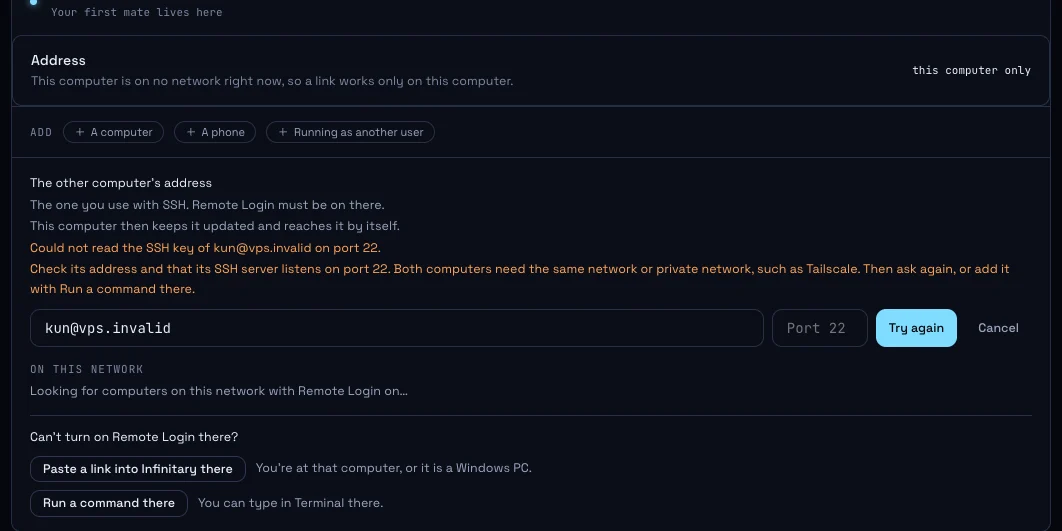
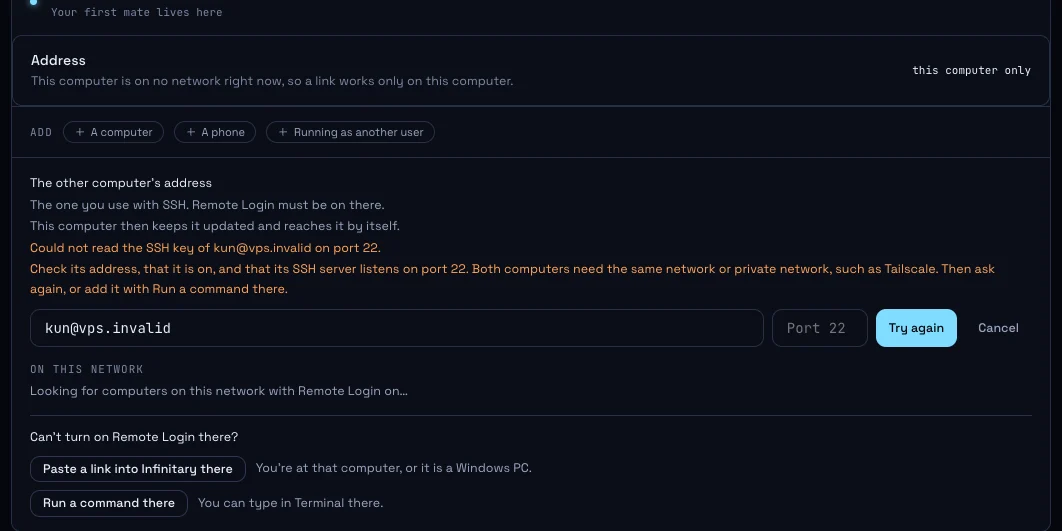
fix(devices): say the sign-in step only after a key read, and name late drops
A look whose computer has no remembered key read none first, so it
keeps the bare words. Placing Firstmate's own key says the sign-in step;
an add's last run, an update once Infinitary began to go there and an
Ubuntu update after its package went there say the sending step. The
release-note pictures show the words the app now says.

Changed region(s): [[0.0311, 0.4821, 0.9633, 0.5725]]

diff --git a/src/core/devices/remoteLogin.ts b/src/core/devices/remoteLogin.ts
@@ -257,6 +257,8 @@ type UbuntuReady = "ready" | "linger-off";
 
 const LOOK_TIMEOUT_MS = 90_000;
 const SEND_TIMEOUT_MS = REMOTE_LOGIN_TIME_LIMIT_MS;
+/** More than any system's pipe holds before SSH reads from it. */
+const PIPE_HOLDS = 1024 * 1024;
 /** The copy's count is said at most this often between its first bytes and its end. */
 const COPY_EVERY_MS = 1_000;
 const IDLE_TIMEOUT_MS = 2 * 60_000;
@@ -314,7 +316,7 @@ export class RemoteLogin {
       if (!this.builds.canSendAny()) return step.refuse("cannot-send");
       const gated = await this.confirmHost(address, options.confirm);
       if ("asks" in gated) return gated;
-      if ("refusal" in gated) return step.refuse(gated.refusal, reachOf(gated));
+      if ("refusal" in gated) return step.refuse(gated.refusal, reachOf(gated.reach));
       step.say("reaching", remoteLoginWords.reaching(address));
       // Whether that Mac is this one is this Mac's own finding, bound to the
       // link it makes, never where the device later dials from.
@@ -344,7 +346,7 @@ export class RemoteLogin {
       } finally {
         here.dispose();
       }
-      if ("refusal" in look) return step.refuse(look.refusal, reachOf(look));
+      if ("refusal" in look) return step.refuse(look.refusal, reachOf(look.reach));
       // That computer's system decides how it is set up, and which Firstmate it gets.
       const far = farSystemOf(look.os);
       const chip = far?.chips[look.arch ?? ""];
@@ -517,9 +519,9 @@ export class RemoteLogin {
           // before signing in, and check the joined folder before installing.
           const gated = await this.confirmHost(address, options.confirm);
           if ("asks" in gated) return gated;
-          if ("refusal" in gated) return step.refuse(gated.refusal, reachOf(gated));
+          if ("refusal" in gated) return step.refuse(gated.refusal, reachOf(gated.reach));
           const look = await this.look(address, "");
-          if ("refusal" in look) return step.refuse(look.refusal, reachOf(look));
+          if ("refusal" in look) return step.refuse(look.refusal, reachOf(look.reach));
           if (!look.joined) return step.packageAddressRefused();
           if (look.home !== this.options.pairing.identity().pin)
             return step.refuse("already-joined");
@@ -539,21 +541,21 @@ export class RemoteLogin {
           return outcome;
         }
         const changed = await this.changedKey(address);
-        if (changed) return step.refuse(changed.refusal, reachOf(changed));
+        if (changed) return step.refuse(changed.refusal, reachOf(changed.reach));
         step.say("updating", remoteLoginWords.updating(device), { deviceId });
         // The system it said in its hello; one that never said is asked there.
         let far = device.system ? farSystemNamed(device.system) : null;
         let chip = far ? (device.chip ?? Object.values(far.chips)[0]) : undefined;
         if (!device.system) {
           const look = await this.look(address, "");
-          if ("refusal" in look) return step.refuse(look.refusal, reachOf(look));
+          if ("refusal" in look) return step.refuse(look.refusal, reachOf(look.reach));
           far = farSystemOf(look.os);
           chip = far?.chips[look.arch ?? ""];
         }
         if (!far || !chip) return step.refuse("other-system");
         if (far.system === "linux" && this.builds.readsPublished()) {
           const looked = await this.look(address, "");
-          if ("refusal" in looked) return step.refuse(looked.refusal, reachOf(looked));
+          if ("refusal" in looked) return step.refuse(looked.refusal, reachOf(looked.reach));
           if (ubuntuPackageRelease(looked)) return this.updateUbuntu(device, looked, options, step);
         }
         if (!this.builds.canSend(far, chip)) return step.refuse("cannot-send");
@@ -563,6 +565,9 @@ export class RemoteLogin {
         const idleTimeoutMs = this.options.idleTimeoutMs ?? IDLE_TIMEOUT_MS;
         let ran: Awaited<ReturnType<typeof runSsh>> | undefined;
         let starting = false;
+        // Infinitary began to go there: its download answered, or SSH read
+        // more of the copy than a pipe holds, which it does only once signed in.
+        let sending = false;
         const start = () => {
           starting = true;
           step.say("updating", remoteLoginWords.starting(name), {
@@ -595,6 +600,7 @@ export class RemoteLogin {
               await new Promise<void>((resolve) => sink.once("close", resolve));
             },
             onLine: (line, activity) => {
+              sending = true;
               if (line === DOWNLOAD_FETCHED) {
                 activity.end();
                 return false;
@@ -650,9 +656,12 @@ export class RemoteLogin {
               ...(build.form === "bundle" ? [] : [build.sha256]),
             ],
             stdin: async (sink, activity) => {
+              let sent = 0;
               await sendCopy(build, sink, (bytes) => {
                 activity();
                 copy.add(bytes);
+                sent += bytes;
+                if (sent > PIPE_HOLDS) sending = true;
               });
               copy.end();
               activity.end();
@@ -694,7 +703,10 @@ export class RemoteLogin {
                   : "failed",
           );
         if (starting) return step.uncertain(name);
-        if (ran.code === SSH_FAILED) return step.refuse(sshRefusal(ran.stderr));
+        if (ran.code === SSH_FAILED) {
+          const refused = await this.refusedOver(address, sshRefusal(ran.stderr), sending);
+          return step.refuse(refused.refusal, reachOf(refused.reach));
+        }
         return step.refuse("failed");
       }),
     );
@@ -788,10 +800,10 @@ export class RemoteLogin {
       this.holding(deviceId, async () => {
         const step = this.stepper(address, "address", device);
         const changed = await this.changedKey(address);
-        if (changed) return step.refuse(changed.refusal, reachOf(changed));
+        if (changed) return step.refuse(changed.refusal, reachOf(changed.reach));
         step.say("reaching", remoteLoginWords.reaching(address), { deviceId });
         const look = await this.look(address, "");
-        if ("refusal" in look) return step.refuse(look.refusal, reachOf(look));
+        if ("refusal" in look) return step.refuse(look.refusal, reachOf(look.reach));
         if (!farSystemOf(look.os)) return step.refuse("other-system");
         if (!look.joined) return step.refuse("not-set-up");
         if (look.home !== this.options.pairing.identity().pin) return step.refuse("already-joined");
@@ -1091,7 +1103,7 @@ export class RemoteLogin {
               },
             );
           }
-          if (ran.code === SSH_FAILED) return refuse(sshRefusal(ran.stderr));
+          if (ran.code === SSH_FAILED) return refuse(sshRefusal(ran.stderr), { step: "send" });
           return refuse("failed");
         } finally {
           clearBackstop();
@@ -1376,7 +1388,11 @@ export class RemoteLogin {
       }
       // Stopped by the time limit while `work update` ran there: it may already have updated.
       if (ran.stopped) return step.uncertain(deviceLabel(device));
-      if (ran.code === SSH_FAILED) return step.refuse(sshRefusal(ran.stderr));
+      // The package is already there: a connection lost now is lost while sending.
+      if (ran.code === SSH_FAILED) {
+        const refused = await this.refusedOver(address, sshRefusal(ran.stderr), true);
+        return step.refuse(refused.refusal, reachOf(refused.reach));
+      }
       return step.refuse("failed");
     } finally {
       secret?.fill(0);
@@ -1403,9 +1419,7 @@ export class RemoteLogin {
     if (ran.code === SSH_FAILED) {
       const refusal = sshRefusal(ran.stderr);
       if (refusal === "key-refused") return { refusal, methods: passwordMethods(ran.stderr) };
-      return refusal === "unreachable"
-        ? { refusal, reach: await this.signInReach(address) }
-        : { refusal };
+      return this.refusedOver(address, refusal);
     }
     const said = new Map<string, string>();
     const needs: string[] = [];
@@ -1494,7 +1508,10 @@ export class RemoteLogin {
       }
       if (outcome === "off") return step.refuse("password-off");
       if (outcome === "other-system") return step.refuse("other-system");
-      if (outcome !== "placed") return step.refuse(outcome.refusal);
+      if (outcome !== "placed") {
+        const refused = await this.refusedOver(address, outcome.refusal);
+        return step.refuse(refused.refusal, reachOf(refused.reach));
+      }
       try {
         this.options.pairing.ownKeyPlacedAt(address);
       } catch {
@@ -1507,12 +1524,25 @@ export class RemoteLogin {
   }
 
   /**
-   * Where a sign-in that could not reach `address` dialed: the port the
-   * person's SSH settings resolve, unless a proxy stands in between.
+   * An SSH refusal from `address`, with the step it could not reach the
+   * computer at: sending once Infinitary began to go there; signing in, at
+   * the port the person's SSH settings resolve unless a proxy stands
+   * between, when a key read came first, as one does before every sign-in
+   * to a computer whose key is remembered; no step otherwise.
    */
-  private async signInReach(address: string): Promise<RemoteLoginReach> {
+  private async refusedOver(
+    address: string,
+    refusal: RemoteLoginRefusal,
+    sending = false,
+  ): Promise<{ refusal: RemoteLoginRefusal; reach?: RemoteLoginReach }> {
+    if (refusal !== "unreachable") return { refusal };
+    if (sending) return { refusal, reach: { step: "send" } };
+    if (!this.options.pairing.rememberedHost(address)) return { refusal };
     const where = await resolveDestination(this.options.ssh, address);
-    return where && !where.proxied ? { step: "sign-in", port: where.port } : { step: "sign-in" };
+    return {
+      refusal,
+      reach: where && !where.proxied ? { step: "sign-in", port: where.port } : { step: "sign-in" },
+    };
   }
 
   /**
@@ -1804,6 +1834,6 @@ function linkNoneRefusal(none: ComputerLinkNone): JoinAtRefusal {
 }
 
 /** The step a refusal could not reach the computer at, as the refusal's words take it. */
-function reachOf(refused: { reach?: RemoteLoginReach }): { reach?: RemoteLoginReach } {
-  return refused.reach ? { reach: refused.reach } : {};
+function reachOf(reach: RemoteLoginReach | undefined): { reach?: RemoteLoginReach } {
+  return reach ? { reach } : {};
 }

diff --git a/src/core/devices/remoteLogin.test.ts b/src/core/devices/remoteLogin.test.ts
@@ -97,11 +97,12 @@ describe.runIf(SSH_SERVER_AVAILABLE)("adding a Mac by its address over Remote Lo
       });
       const at = await home({ ssh: sshd.ssh({ remote: them.env }), bundle });
       const refused = await addChecked(at.remote, sshd.address).catch((error: unknown) => error);
-      const reason = code === 255 ? "unreachable" : "failed";
-      const lines = remoteLoginWords.refused(reason, {
+      // SSH's own failure there is the connection lost while it sent and started Infinitary.
+      const lines = remoteLoginWords.refused(code === 255 ? "unreachable" : "failed", {
         address: sshd.address,
         name: "Mac mini",
         doing: "add",
+        ...(code === 255 ? { reach: { step: "send" as const } } : {}),
       });
       expect(refused).toBeInstanceOf(RemoteLoginRefusedError);
       expect((refused as Error).message).toBe(lines.join("\n"));

diff --git a/docs/devices.md b/docs/devices.md
@@ -508,9 +508,10 @@ Its second line names what to check, the private network among it, and on an add
 | Reading its SSH key | Something took the connection at that port and sent no key; read on Linux and Windows, which dial the port once themselves after the key read fails | "Something answered at kun@vps on port 22, but sent no SSH key." over "Check that port 22 is its SSH server and not another service." |
 | Reading its SSH key | Nothing answered there in time, on Linux and Windows | "Nothing answered at kun@vps on port 22 when reading its SSH key." over a check of the address, the private network and its firewall |
 | Reading its SSH key | On a Mac, which never dials the port itself, since its local network privacy would ask, or where the name finds no address | "Could not read the SSH key of kun@vps on port 22." over a check that its SSH server listens on that port and of the private network |
-| Signing in | The key was read, and SSH then could not reach it; the port is the one the person's SSH settings resolve, left out behind a proxy | "Could not reach kun@vps on port 22 to sign in, after reading its SSH key." |
-| Sending Infinitary | The connection dropped after the sign-in | "The connection to vps dropped while sending Infinitary." |
+| Signing in | A key read came first, as on every add and on an update or a change of address whose key is remembered, and SSH then could not reach it, or could not reach it to let Firstmate's own key in; the port is the one the person's SSH settings resolve, left out behind a proxy | "Could not reach kun@vps on port 22 to sign in, after reading its SSH key." |
+| Sending Infinitary | The connection dropped after the sign-in: while an add sends and starts Infinitary, once an update's download answers or SSH has read more of its copy than a pipe holds, or during an Ubuntu update after its package went there | "The connection to vps dropped while sending Infinitary." |
 
+An update or a change of address to a computer whose key is not remembered reads no key first, so SSH failing there keeps the bare "Could not reach sam@mini.local." with the same second line.
 The port is the one `ssh -G` resolves for the address (`resolveDestination`, `src/core/devices/hostKey.ts`); an address the settings reach through a proxy, or one SSH cannot resolve, keeps the bare "Could not reach sam@mini.local." with the same second line.
 Join by its address on the first launch says the bare lines too (`joinAtRefusalWords`, `src/shared/joinByAddress.ts`), with no command way, since it joins a first mate that already runs there.
 
